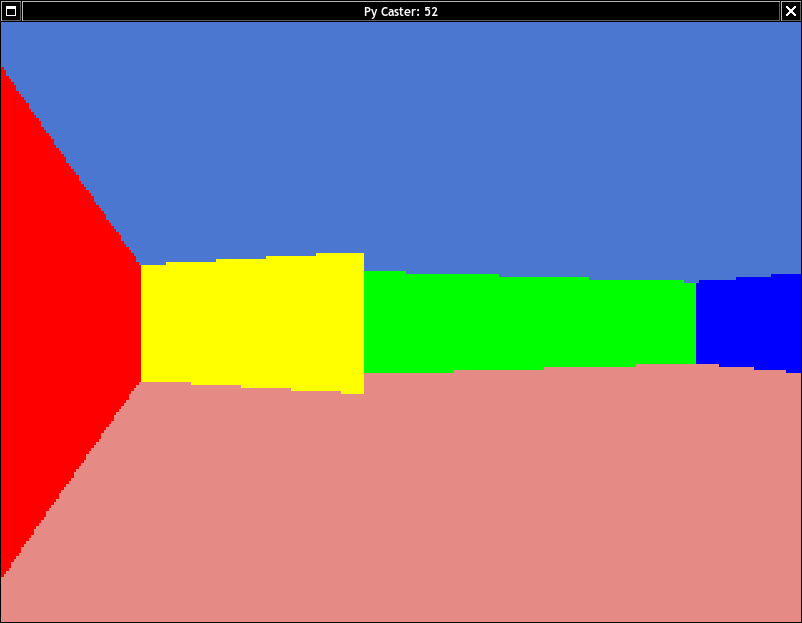
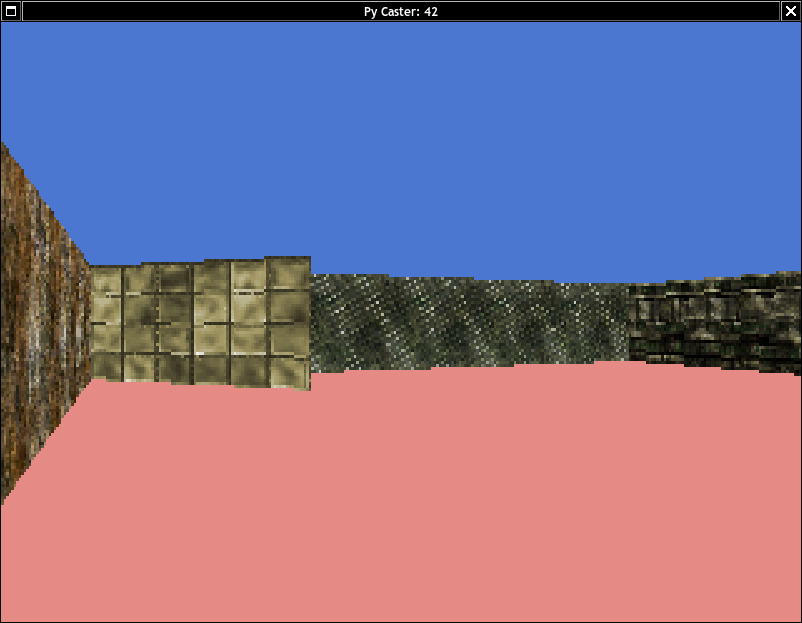
Added texture mapping.

Changed region(s): [[0.0, 0.122, 1.0, 0.9149]]

diff --git a/py_caster.py b/py_caster.py
@@ -20,10 +20,11 @@ TOLERANCE     = 0.000001
 # Projection parameters
 ##############################################################
 
-FB_SIZE         = (320, 200)
-DEG2RAD         = 3.1415926535897932384626433 / 180.0
-FOV             = 66.84962236520761
-ANGLE_INCREMENT = FOV / float(FB_SIZE[0])
+FB_SIZE                = (320, 200)
+DEG2RAD                = 3.1415926535897932384626433 / 180.0
+FOV                    = 66.84962236520761
+ANGLE_INCREMENT        = FOV / float(FB_SIZE[0])
+HEIGHT_CLAMP_MULTIPLER = 10 # MUST BE AN INTEGER
 
 ##############################################################
 # Player parameters
@@ -112,23 +113,23 @@ class Ray(object):
 ##############################################################
 
 class Intersection(object):
-    def __init__(self, ray, point, tex_coords):
+    def __init__(self, ray, point, tex_coord):
         self.p = point
         self.d = ray.o.distance(point)
-        self.tc = tex_coords
+        self.tc = tex_coord
 
 ##############################################################
 # Line Segment Class
 ##############################################################
 
 class LineSegment(object):
-    def __init__(self, a, b, tca, tcb, c = (0, 0, 0)):
+    def __init__(self, a, b, tca, tcb, texture):
         self.a = a
         self.b = b
         self.v = b.sub(a).normalize()
         self.tca = tca
         self.tcb = tcb
-        self.color = c
+        self.texture = pygame.image.load(texture)
 
     def intersect(self, r):
         def classifyPoint2D(point):
@@ -144,6 +145,9 @@ class LineSegment(object):
             else:
                 return -1
 
+        def lerp(a, b, t):
+            return (a * t) + (b * (1.0 - t))
+
         side = classifyPoint2D(r.o)
         v2 = self.b.sub(self.a) if sign(side) > 0 else self.a.sub(self.b)
         v3 = vec2(-r.d.y, r.d.x)
@@ -157,9 +161,17 @@ class LineSegment(object):
             t2 = v1.dot(v3) / det
 
             if t2 >= 0.0 and t2 <= 1.0 and t1 > 0.0:
-                return Intersection(r, r.o.add(r.d.scale(t1)), self.tca.mix(self.tcb, t2))
+                return Intersection(r, r.o.add(r.d.scale(t1)), lerp(self.tca, self.tcb, t2))
             else:
                 return None
+
+    def get_tex_column(self, s):
+        w = self.texture.get_width()
+        h = self.texture.get_height()
+        _s = s * w if s >= 0.0 else (1.0 - (math.ceil(s) - s)) * w
+        _s = int(_s % w)
+        # Creating a subsurface is pretty fast in pygame, no copying of pixels is needed
+        return self.texture.subsurface(pygame.Rect(_s, 0, 1, h))
 
 ##############################################################
 # Main Function
@@ -168,8 +180,6 @@ class LineSegment(object):
 def main():
     # Local variables.
     done = False
-    fog_enabled = False
-    toggle_fog = False
     player_pos = vec2(0.0, 0.0)
     player_dir = vec2(-1.0, 0.0)
     plane = vec2(0.0, 0.66)
@@ -184,11 +194,11 @@ def main():
     pygame.key.set_repeat(17, 17)
 
     # Define walls.
-    walls = [LineSegment(vec2(-3.0, 3.0), vec2(3.0, 3.0), vec2(0.0, 1.0), vec2(0.0, 1.0), (255, 0, 0)),
-             LineSegment(vec2(3.0, 3.0), vec2(3.0, -3.0), vec2(0.0, 1.0), vec2(0.0, 1.0), (0, 255, 0)),
-             LineSegment(vec2(1.5, 1.5), vec2(3.0, 3.0), vec2(0.0, 1.0), vec2(0.0, 1.0), (255, 255, 0)),
-             LineSegment(vec2(3.0, -3.0), vec2(-3.0, -3.0), vec2(0.0, 1.0), vec2(0.0, 1.0), (0, 0, 255)),
-             LineSegment(vec2(-3.0, -3.0), vec2(-3.0, 3.0), vec2(0.0, 1.0), vec2(0.0, 1.0), (255, 0, 255))]
+    walls = [LineSegment(vec2(-3.0, 3.0), vec2(3.0, 3.0), -3.0, 3.0, "Textures/brownstone.jpg"),
+             LineSegment(vec2(3.0, 3.0), vec2(3.0, -3.0), 0.0, 6.0, "Textures/diagmetal.jpg"),
+             LineSegment(vec2(1.5, 1.5), vec2(3.0, 3.0), 0.0, 1.5, "Textures/goldlites.jpg"),
+             LineSegment(vec2(3.0, -3.0), vec2(-3.0, -3.0), 0.0, 6.0, "Textures/metal.jpg"),
+             LineSegment(vec2(-3.0, -3.0), vec2(-3.0, 3.0), 0.0, 6.0, "Textures/orangetiles.jpg")]
 
     # Main game loop.
     try:
@@ -201,38 +211,14 @@ def main():
                 if (event.type == pygame.KEYDOWN and event.key == pygame.K_ESCAPE) or event.type == pygame.QUIT:
                     done = True
 
-                if event.type == pygame.KEYDOWN and event.key == pygame.K_UP:
-                    arrow_keys[pygame.K_UP] = True
-
-                if event.type == pygame.KEYDOWN and event.key == pygame.K_DOWN:
-                    arrow_keys[pygame.K_DOWN] = True
-
-                if event.type == pygame.KEYDOWN and event.key == pygame.K_LEFT:
-                    arrow_keys[pygame.K_LEFT] = True
-
-                if event.type == pygame.KEYDOWN and event.key == pygame.K_RIGHT:
-                    arrow_keys[pygame.K_RIGHT] = True
-
-                if event.type == pygame.KEYUP and event.key == pygame.K_UP:
-                    arrow_keys[pygame.K_UP] = False
-
-                if event.type == pygame.KEYUP and event.key == pygame.K_DOWN:
-                    arrow_keys[pygame.K_DOWN] = False
-
-                if event.type == pygame.KEYUP and event.key == pygame.K_LEFT:
-                    arrow_keys[pygame.K_LEFT] = False
-
-                if event.type == pygame.KEYUP and event.key == pygame.K_RIGHT:
-                    arrow_keys[pygame.K_RIGHT] = False
-
-                if event.type == pygame.KEYDOWN and event.key == pygame.K_SPACE:
-                    if not toggle_fog:
-                        fog_enabled = not fog_enabled
-                        toggle_fog = True
-
-                if event.type == pygame.KEYUP and event.key == pygame.K_SPACE:
-                    if toggle_fog:
-                        toggle_fog = False
+                # Record wich keys were pressed and released this frame
+                try:
+                    if event.type == pygame.KEYDOWN:
+                        arrow_keys[event.key] = True
+                    if event.type == pygame.KEYUP:
+                        arrow_keys[event.key] = False
+                except KeyError:
+                    pass
             
             # Camera movement
             if arrow_keys[pygame.K_UP]:
@@ -269,28 +255,24 @@ def main():
                 r = Ray(vec2(player_pos.x, player_pos.y), vec2(player_dir.x + plane.x * camera_x, player_dir.y + plane.y * camera_x))
 
                 d = float('Inf')
-                c = (0, 0, 0)
+                c = None
+                # Check each wall for an intersection
                 for l in walls:
                     p = l.intersect(r)
                     if p is not None:
+                        # If an intersection was found then keep it if it's closer than the previous one
                         if p.d < d:
                             d = p.d
+                            c = l.get_tex_column(p.tc)
 
-                            def lerp(col, dst):
-                                lt = 0.0 if dst < FOG_NEAR else (1.0 if dst > FOG_FAR else (dst - FOG_NEAR) / (FOG_FAR - FOG_NEAR))
-
-                                red = (FOG_COLOR[0] * lt) + (col[0] * (1.0 - lt))
-                                green = (FOG_COLOR[1] * lt) + (col[1] * (1.0 - lt))
-                                blue = (FOG_COLOR[2] * lt) + (col[2] * (1.0 - lt))
-
-                                return (red, green, blue)
-
-                            c = lerp(l.color, d) if fog_enabled else l.color
-
-                if d < float('Inf'):
+                if d < float('Inf') and c is not None:
+                    # If an intersection was found then compute the projected height of the wall in pixels
                     h = int(float(FB_SIZE[1]) / (d * math.cos(angle * DEG2RAD)))
-                    h = FB_SIZE[1] if h > FB_SIZE[1] else h
-                    frame_buffer.fill(c, pygame.Rect(i, -(h / 2) + (FB_SIZE[1] / 2), 1, h))
+                    # The height tends to infinity as we get close to the walls so it must be clamped
+                    h = HEIGHT_CLAMP_MULTIPLER * FB_SIZE[1] if h > HEIGHT_CLAMP_MULTIPLER * FB_SIZE[1] else h
+                    # Then scale the corresponding texture slice and blit it
+                    scaled = pygame.transform.scale(c, (c.get_width(), h))
+                    frame_buffer.blit(scaled, (i, -(h / 2) + (FB_SIZE[1] / 2)))
 
                 angle += ANGLE_INCREMENT
 
